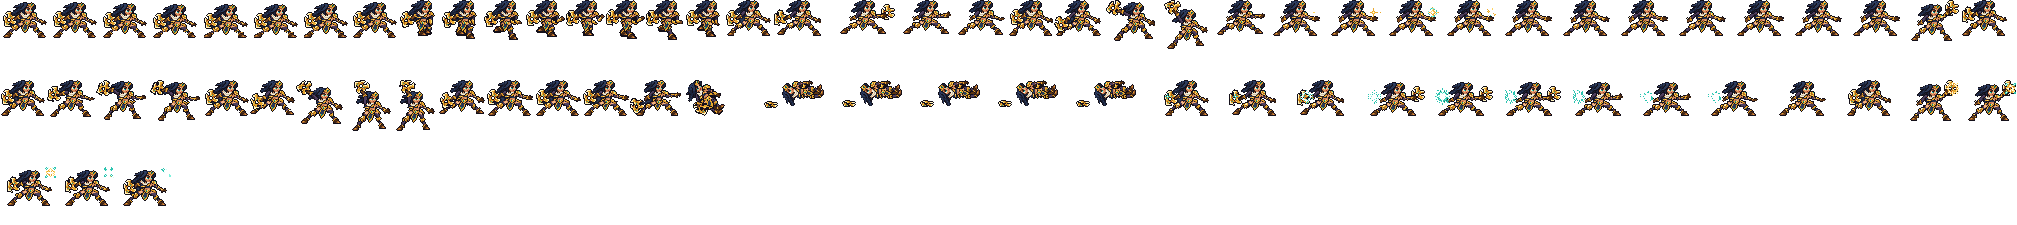
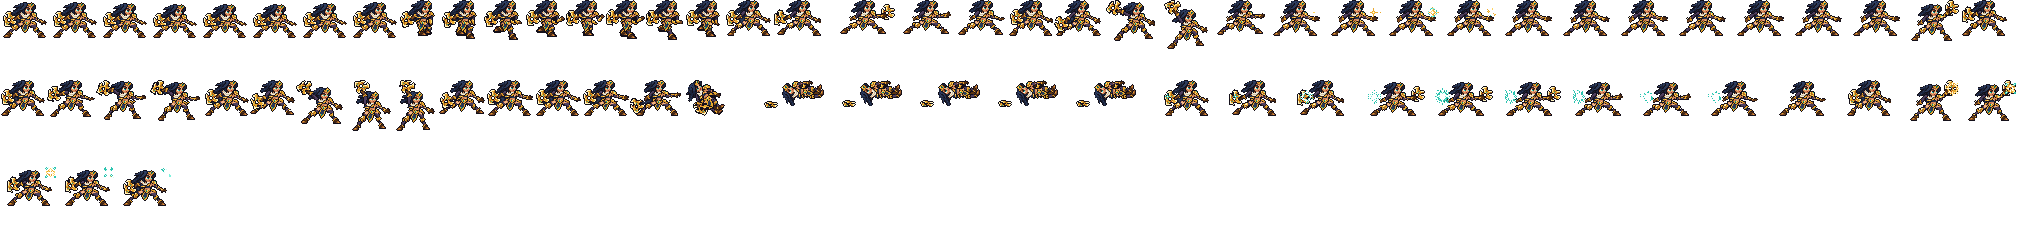
Sivir's breath over her boots, no lean
「上下摆动时 希维尔的鞋变形了吧」: the shin seam (and main's default one before
it) crossed the tops of her slanted boots, and the lean's ankle hinge moved
them a column - up to 88 squares round the boots changed per frame (main:
164). BREATHE_OPTS sivir: zone (0.50, 11) puts the seam over the boots, sway
off. Her boots are now identical in all 8 frames; everything above the hips
moves rigidly; only the thigh tops take the breath.

Changed region(s): [[0.0312, 0.0311, 0.1874, 0.1556]]

diff --git a/tools/art/import_native.py b/tools/art/import_native.py
@@ -72,8 +72,9 @@ BREATHE_SKIP = {"brand", "tristana", "jax", "pyke", "yone", "gwen", "kayle", "al
 # (「鳄鱼的脚有点怪」「薇恩有点怪」, 2026-10-08)
 # Kennen's went lower still, to his boots (0.08): at 0.18 the cut ran through the gold bar on his coat's hem
 # (「凯南待机时武器也变形」)
-BREATHE_OPTS = {"sivir": {"zone": (0.20, 1)},   # shrunk to 90%, the default zone's cheapest seam ran
-                # through her hips and skirt plates (「希维尔上下摆动模型严重变形」): the seam in the shins
+BREATHE_OPTS = {"sivir": {"zone": (0.50, 11), "sway": [0] * 8},   # shrunk to 90% the default zone's cheapest seam
+                # ran through her hips and skirt plates (「希维尔上下摆动模型严重变形」), lower ones and the lean's ankle
+                # hinge through her boots (「上下摆动时 希维尔的鞋变形了吧」): the seam over the boots, no lean
                 "kennen": {"zone": (0.08, 1)}, "leblanc": {"zone": (0.18, 1)},
                 "janna": {"zone": (0.18, 1)}, "twistedfate": {"zone": (0.18, 1)},
                 "renekton": {"zone": (0.15, 1)}, "vayne": {"zone": (0.20, 1)},
